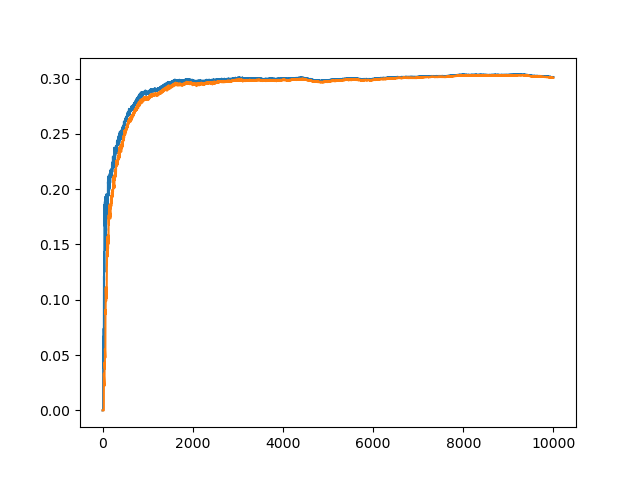
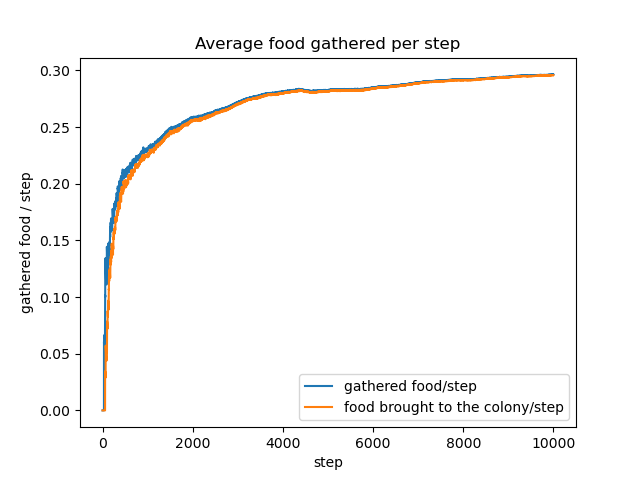
add axis labels and titles

diff --git a/code/plots.py b/code/plots.py
@@ -133,6 +133,10 @@ def hist_distances(grid, steps):
         cum_back,
         label="food brought to the colony",
     )
+    plt.legend()
+    plt.xlabel("step")
+    plt.ylabel("gathered food")
+    plt.title("Total food gathered")
     fig.savefig("images/total_gathered_food.png")
 
     fig = plt.figure()
@@ -146,4 +150,8 @@ def hist_distances(grid, steps):
         cum_back[1:] / stps[1:],
         label="food brought to the colony/step",
     )
+    plt.legend()
+    plt.xlabel("step")
+    plt.ylabel("gathered food / step")
+    plt.title("Average food gathered per step")
     fig.savefig("images/average_gathered_food.png")
